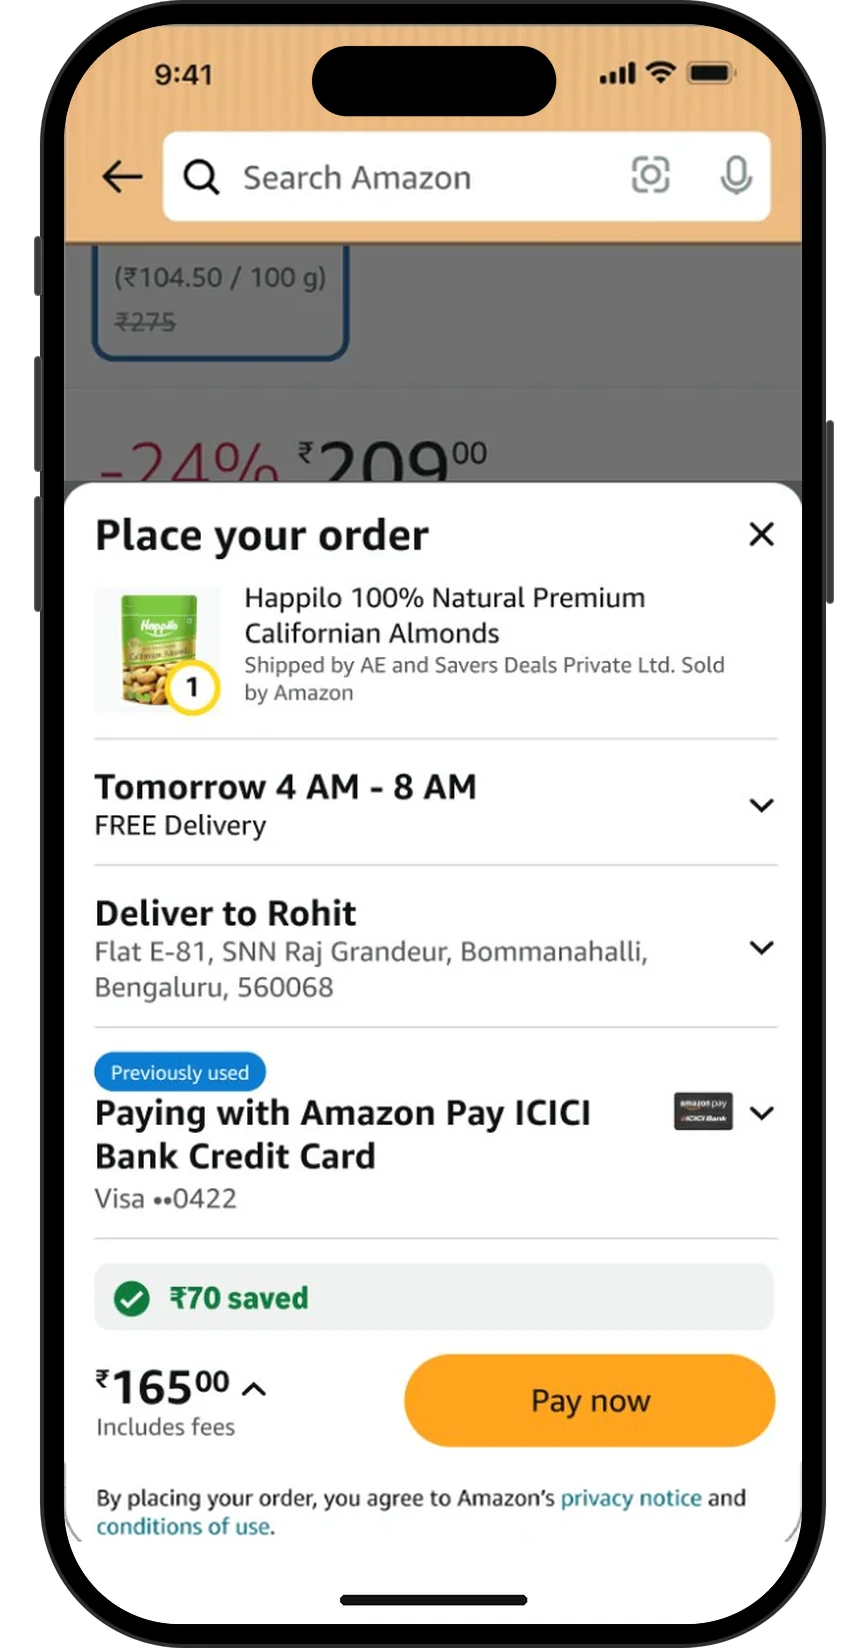
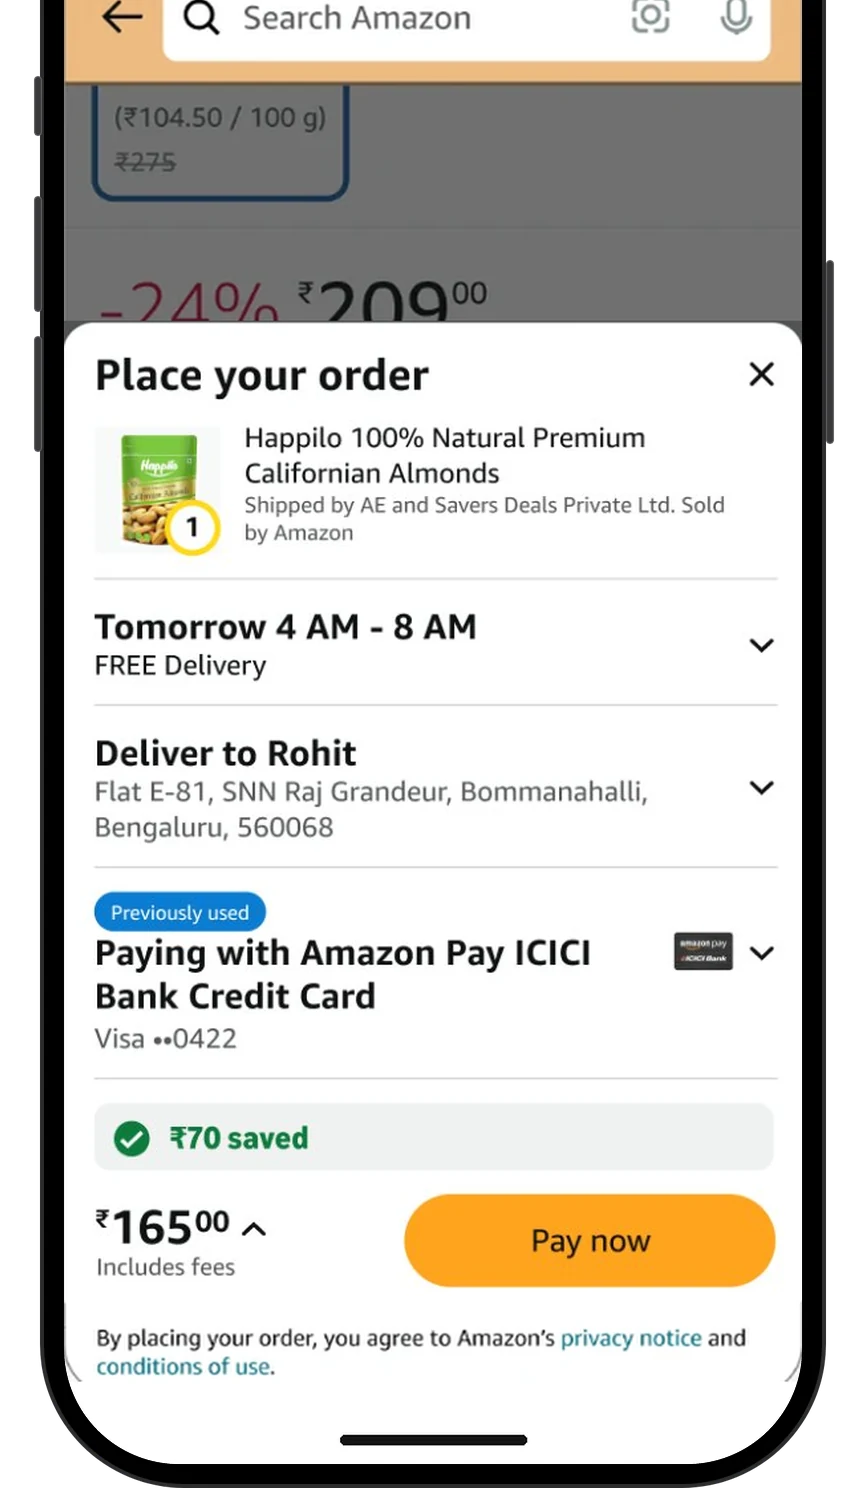
Launched sheet: fade the top of the phone, keep the whole sheet
Claude-Session: https://claude.ai/code/session_0148cmcEZVsaaiRL7adWuTyw

diff --git a/in-context-checkout.html b/in-context-checkout.html
@@ -17,7 +17,7 @@
   <link rel="preconnect" href="https://fonts.gstatic.com" crossorigin>
   <link href="https://fonts.googleapis.com/css2?family=Inter:wght@400;500;600;700;800&display=swap" rel="stylesheet">
   <link rel="stylesheet" href="styles.css?v=59">
-  <link rel="stylesheet" href="case.css?v=43">
+  <link rel="stylesheet" href="case.css?v=44">
   <script>
     // Scroll reveals only run when motion is welcome (see the script at the end)
     if (!matchMedia('(prefers-reduced-motion: reduce)').matches) document.documentElement.classList.add('motion');
@@ -198,7 +198,7 @@
 
         <article class="cs-version cs-final">
           <figure class="cs-phone co-still reveal">
-            <img src="assets/work/icc/launched-sheet.webp?v=1" width="866" height="1648" loading="lazy"
+            <img src="assets/work/icc/launched-sheet.webp?v=2" width="866" height="1488" loading="lazy"
                  alt="Place your order as a sheet over the product page: Happilo almonds, delivery Tomorrow 4 AM to 8 AM, Deliver to Rohit, previously used Amazon Pay ICICI Bank credit card, ₹70 saved, ₹165 and Pay now">
           </figure>
           <div class="cs-copy reveal">

diff --git a/case.css b/case.css
@@ -477,6 +477,9 @@
 .co-sheet .co-saved { padding: 6px 8px; border: 0; border-radius: 6px; background: #e8f8f2; color: #067d62; font-weight: 600; }
 .co-sheet .co-pay { margin-top: 8px; padding: 8px; border: 0; border-radius: 999px; background: #ffd814; text-align: center; }
 
+/* Launched sheet: the phone fades in from the top, stopping well above the sheet */
+.co-still img { -webkit-mask-image: linear-gradient(to bottom, transparent, #000 17%); mask-image: linear-gradient(to bottom, transparent, #000 17%); }
+
 /* Flows: each one an auto-animated phone with its steps alongside */
 .co-flow { display: grid; grid-template-columns: minmax(0, 420px) minmax(0, 1fr); gap: 40px; align-items: center; margin-top: 88px; }
 .co-flow-media { margin: 0 -24px; } /* the video carries the phone's shadow in its margins */

diff --git a/value-perception.html b/value-perception.html
@@ -17,7 +17,7 @@
   <link rel="preconnect" href="https://fonts.gstatic.com" crossorigin>
   <link href="https://fonts.googleapis.com/css2?family=Inter:wght@400;500;600;700;800&display=swap" rel="stylesheet">
   <link rel="stylesheet" href="styles.css?v=59">
-  <link rel="stylesheet" href="case.css?v=43">
+  <link rel="stylesheet" href="case.css?v=44">
   <script>
     // Scroll reveals only run when motion is welcome (see the script at the end)
     if (!matchMedia('(prefers-reduced-motion: reduce)').matches) document.documentElement.classList.add('motion');
